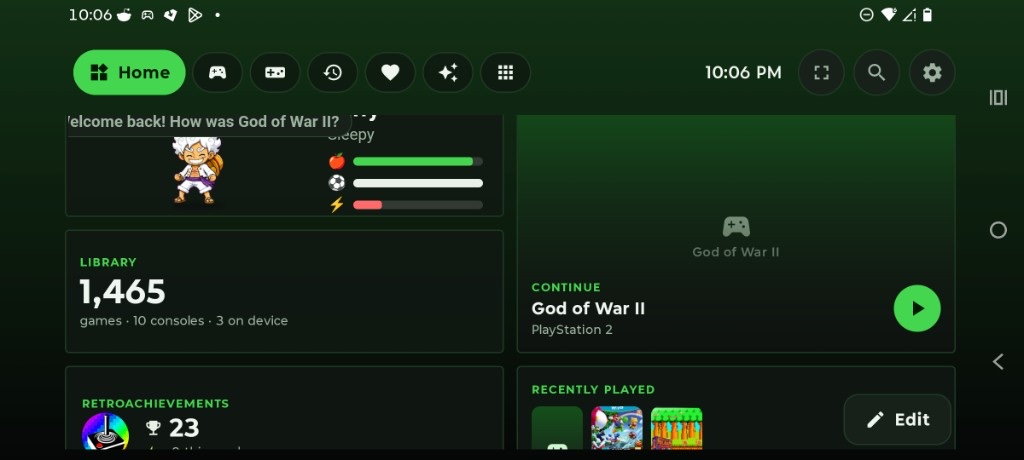
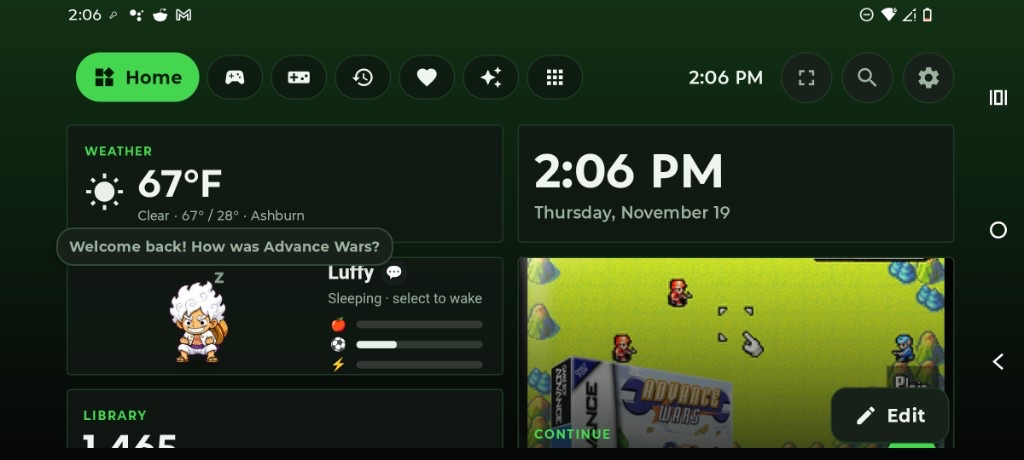
Refresh Pixel Pal AI screenshots: Home, hints, overlay, and chat.
Replaces the older Home shot and documents in-game pal overlay and chat.

diff --git a/README.md b/README.md
@@ -97,11 +97,13 @@ New here? Read the **[User guide](docs/GUIDE.md)**.
 
 ### Home page, Pixel Pal and AI
 
-| Home with Pixel Pal | AI & Home entry |
+| Home with Pixel Pal | Pixel Pal AI hints |
 |---|---|
-| ![Home page with Pixel Pal](screenshots/61-home-ai.jpg) | ![Home page](screenshots/53-home-page.jpg) |
-| **Add a widget / plugin** | **Pixel Pal's options** |
-| ![Widget plugins](screenshots/54-widget-plugins.jpg) | ![Pixel Pal](screenshots/55-pixel-pet.jpg) |
+| ![Home page with Pixel Pal](screenshots/61-home-ai.jpg) | ![Pixel Pal AI hints](screenshots/62-pixel-pal-ai.jpg) |
+| **Pal over a game** | **Chat while you play** |
+| ![Pixel Pal overlay](screenshots/63-pal-overlay.jpg) | ![Pixel Pal chat](screenshots/64-pal-chat.jpg) |
+| **Add a widget / plugin** | **Choose a pet** |
+| ![Widget plugins](screenshots/54-widget-plugins.jpg) | ![Pixel Pal pets](screenshots/55-pixel-pet.jpg) |
 
 ### Big Picture
 
